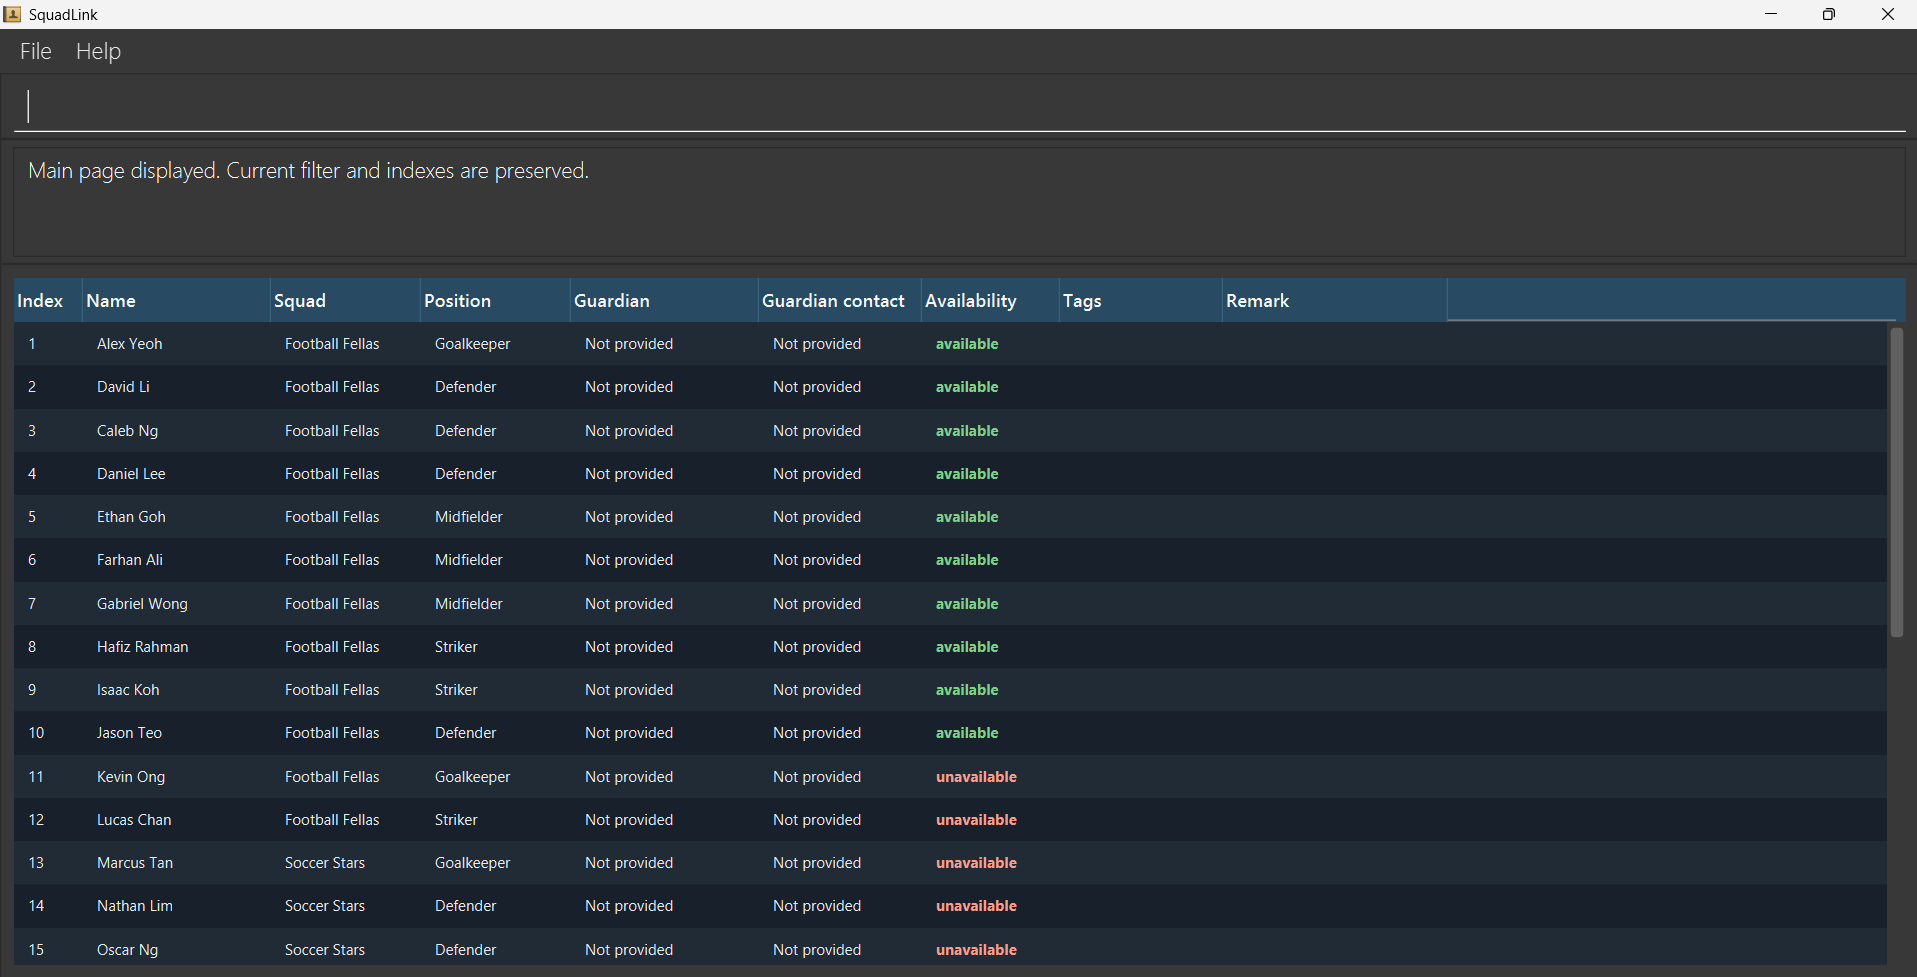
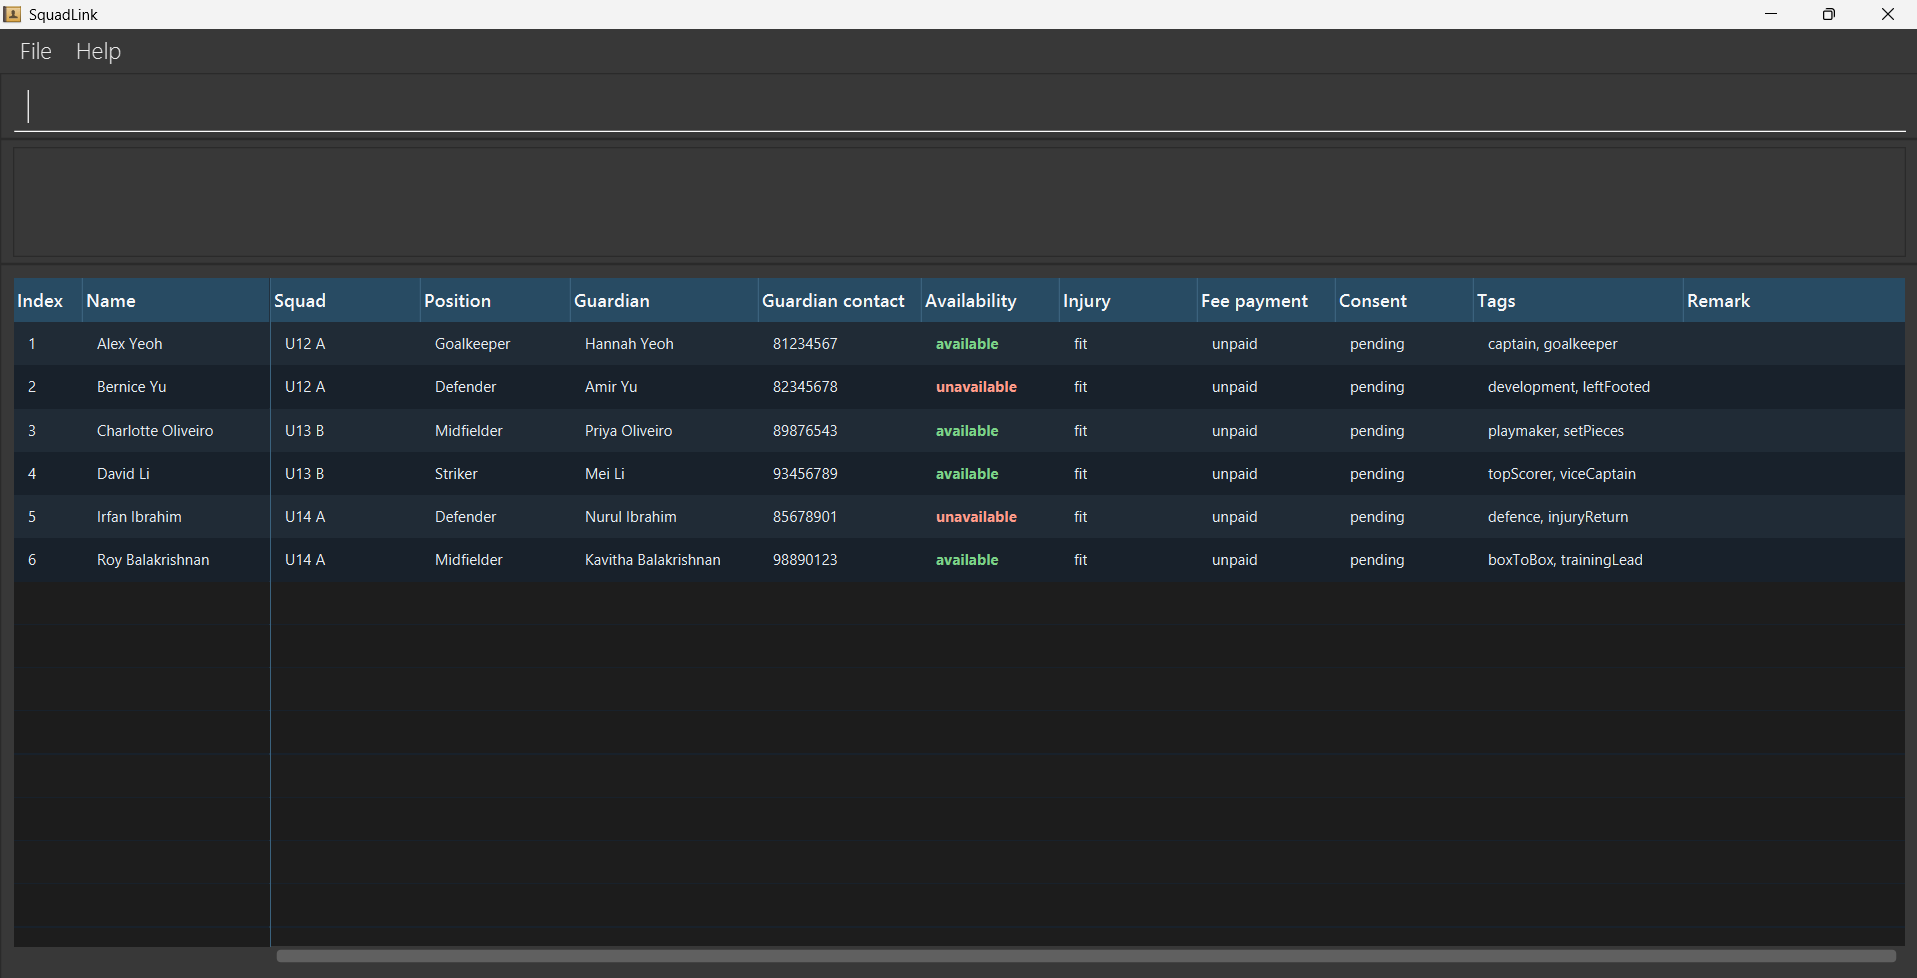
Refresh user guide screenshots and command guidance
Update interface and search screenshots with current sample data.
Illustrate ambiguous deletion and filtered status updates.

Clarify parameter order, filter resets, undo/redo history lifetime,
overview counts, and the edit name prefix alias.

diff --git a/docs/UserGuide.md b/docs/UserGuide.md
@@ -69,8 +69,9 @@ check squad availability, and navigate views by typing commands.
 * Items followed by `…` can appear zero or more times.<br>
   For example, `[t/TAG]…` may be omitted, or written as `t/friend` or `t/friend t/family`.
 
-* Parameters can be in any order.<br>
-  For example, if the command specifies `n/NAME t/TAG`, `t/TAG n/NAME` is also acceptable.
+* Prefixed fields can appear in any order unless stated otherwise. For commands such as `edit` and `mark`,
+  place the player indexes before the prefixed fields.<br>
+  For example, `edit 1 n/John Doe t/captain` and `edit 1 t/captain n/John Doe` are equivalent.
 
 * `help`, `list`, `exit`, `clear`, `main`, `overview`, `undo` and `redo` accept no parameters.<br>
   Extra arguments, such as `help 123`, are rejected with usage guidance.
@@ -186,7 +187,7 @@ Example workflow:
 
 ### Viewing squad availability: `overview`
 
-Opens a scrollable card overview of every squad and the players available for selection.
+Opens a scrollable card overview showing each squad's total, available and unavailable player counts.
 
 Format: `overview`
 
@@ -224,8 +225,11 @@ Format: `edit INDEX [n/NAME] [squad/SQUAD_NAME] [position/POSITION] [guardian/GU
   players are displayed, both `edit 99` and `edit 99 n/123@` report an invalid player index. With a valid index,
   missing fields or invalid field values are reported instead. Rejected edits do not change player data.
 * Existing values will be updated to the input values.
+* After a successful edit, all players are shown: the current search or filter is cleared, while the sort order
+  is retained. Check the displayed indexes before issuing another index-based command.
 * Name, squad, position, guardian name, guardian contact, availability, injury status, fee payment, consent, remark and tags
   can be edited with this command.
+  For the player's name, use either `n/` or `name/`.
   Use `sn/`, `pos/`, `g/`, `gc/`, `av/`, `inj/`, `f/`, `c/`, `r/` and `t/` as shorthand for their respective full prefixes.
   Specify each field once, except tags; using both a field's full prefix and shorthand is rejected.
   The previous availability prefix, `available/`, is also accepted for backwards compatibility.
@@ -314,6 +318,21 @@ Examples:
 * `mark 1 3 f/paid` records payment using the shorthand prefix.
 
 To update several statuses, run separate commands, checking indexes between commands if a filter is active.
+
+**Example: marking a player while a filter is active**
+
+After `filter av/true` and `sort name`, this example roster shows five available players.
+Alex Tan is at index 1, and Alex Yeoh is at index 2.
+
+![Five available players before marking, with Alex Tan at index 1 and Alex Yeoh at index 2](images/markFilteredBefore.png)
+
+Running `mark 1 av/false` makes Alex Tan unavailable. He remains registered but disappears from this
+filtered list. The four remaining players are renumbered, so Alex Yeoh is now at index 1.
+
+![After marking Alex Tan unavailable, four matching players remain and Alex Yeoh is at index 1](images/markFilteredAfter.png)
+
+Check the new indexes before another command: repeating `mark 1 av/false` would now update Alex Yeoh.
+Use `list` to show all players, including Alex Tan.
 
 ### Locating players by name: `find`
 
@@ -462,6 +481,18 @@ Examples:
 * `delete name/John Doe, Amy Tan` does the same using the full prefix.
 * `delete n/17` selects a player whose full name is `17`.
 
+Example: `delete n/Alex Tan` finds two players with the same name. Neither is deleted;
+the matching players are displayed so you can distinguish them by squad and position.
+
+![Two Alex Tan matches displayed after an ambiguous name deletion](images/deleteAmbiguousName.png)
+
+In this displayed list, `delete 2` deletes only Alex Tan from `U13 B`, whose position is `Striker`.
+Check the indexes again if you change the displayed list before deleting.
+
+![Successful deletion of Alex Tan from U13 B, leaving the U12 A defender in the matching list](images/deleteAmbiguousResolved.png)
+
+After `delete 2`, the confirmation identifies the deleted player. Alex Tan from `U12 A` remains in the matching list.
+
 Batch error examples (assuming no player is named `Missing Person` and multiple players are named `Alex Tan`):
 
 * `delete n/Missing Person, Alex Tan` reports that `Missing Person` was not found and that `Alex Tan` matches
@@ -485,6 +516,9 @@ Format: `undo`
 * Reverses the most recent data-modifying command (such as `add`, `edit`, `delete`, `clear`, `remark` or `mark`).
 * Commands that do not modify player data (such as `list`, `find`, `filter`, `sort`, `main`, `overview`, and `help`) cannot be undone and are skipped by `undo`.
 * Multiple commands can be undone consecutively back to the initial state when the application started.
+* After a successful undo, all players are shown. The current search or filter is cleared, while the sort order
+  is retained. Check the displayed indexes before issuing another index-based command.
+* Undo/redo history is lost when SquadLink closes. Changes from a previous session cannot be undone or redone.
 * Accepts no parameters. Extra arguments (such as `undo 1`) are rejected with usage guidance.
 * If there are no previous commands to undo, SquadLink displays: `The previous command cannot be undone.`
 
@@ -502,6 +536,9 @@ Format: `redo`
 
 * Re-applies the action of the last command reversed by `undo`.
 * Multiple `undo` commands can be reversed with consecutive `redo` commands.
+* After a successful redo, all players are shown. The current search or filter is cleared, while the sort order
+  is retained. Check the displayed indexes before issuing another index-based command.
+* Only commands undone during the current session can be redone; history is lost when SquadLink closes.
 * If a new modifying command (such as `add`, `delete`, `edit`, or `mark`) is entered after an `undo`, the remaining redo history is cleared and can no longer be redone.
 * Accepts no parameters. Extra arguments (such as `redo all`) are rejected with usage guidance.
 * If there is no undone command to redo, SquadLink displays: `There is no undo to redo.`
@@ -569,7 +606,7 @@ Action | Format, Examples
 **Clear** | `clear`
 **Mark status** | `mark INDEX [INDEX]... STATUS/VALUE`<br> Choose one: `av/true\|false\|available\|unavailable`, `injury/fit\|injured`, `fee/paid\|unpaid`, `consent/received\|pending`<br> Aliases: `availability/`, `inj/`, `f/`, `c/`<br> e.g., `mark 1 3 f/paid`
 **Delete** | `delete INDEX [INDEX]...` or `delete n/NAME[, NAME]...`<br> e.g., `delete 1 3` or `delete n/John Doe, Amy Tan`
-**Edit** | `edit INDEX [n/NAME] [squad/SQUAD_NAME] [position/POSITION] [guardian/GUARDIAN_NAME] [contact/TELEPHONE_NUMBER] [availability/true\|false\|available\|unavailable] [injury/fit\|injured] [fee/paid\|unpaid] [consent/received\|pending] [remark/REMARK] [tag/TAG]…`<br> Aliases: `sn/`, `pos/`, `g/`, `gc/`, `av/`, `inj/`, `f/`, `c/`, `r/`, `t/`<br> e.g., `edit 2 r/Reliable defender`
+**Edit** | `edit INDEX [n/NAME] [squad/SQUAD_NAME] [position/POSITION] [guardian/GUARDIAN_NAME] [contact/TELEPHONE_NUMBER] [availability/true\|false\|available\|unavailable] [injury/fit\|injured] [fee/paid\|unpaid] [consent/received\|pending] [remark/REMARK] [tag/TAG]…`<br> Aliases: `name/` for `n/`; `sn/`, `pos/`, `g/`, `gc/`, `av/`, `inj/`, `f/`, `c/`, `r/`, `t/` for the corresponding full prefixes<br> e.g., `edit 2 r/Reliable defender`
 **Remark** | `remark INDEX [remark/REMARK]`<br> Alias: `r/`<br> e.g., `remark 1 r/Call after school`<br> Clear with `remark 1 r/`; `remark 1` also clears the remark.
 **Find** | `find KEYWORD [MORE_KEYWORDS]`<br> e.g., `find James Jake`
 **Filter** | `filter [squad/SQUAD_NAME] [position/POSITION] [availability/true\|false\|available\|unavailable] [injury/fit\|injured] [fee/paid\|unpaid] [consent/received\|pending]` (at least one criterion required)<br> Aliases: `sn/`, `pos/`, `av/`, `inj/`, `f/`, `c/` <br> e.g., `filter sn/Soccer Stars pos/Defender av/true`
